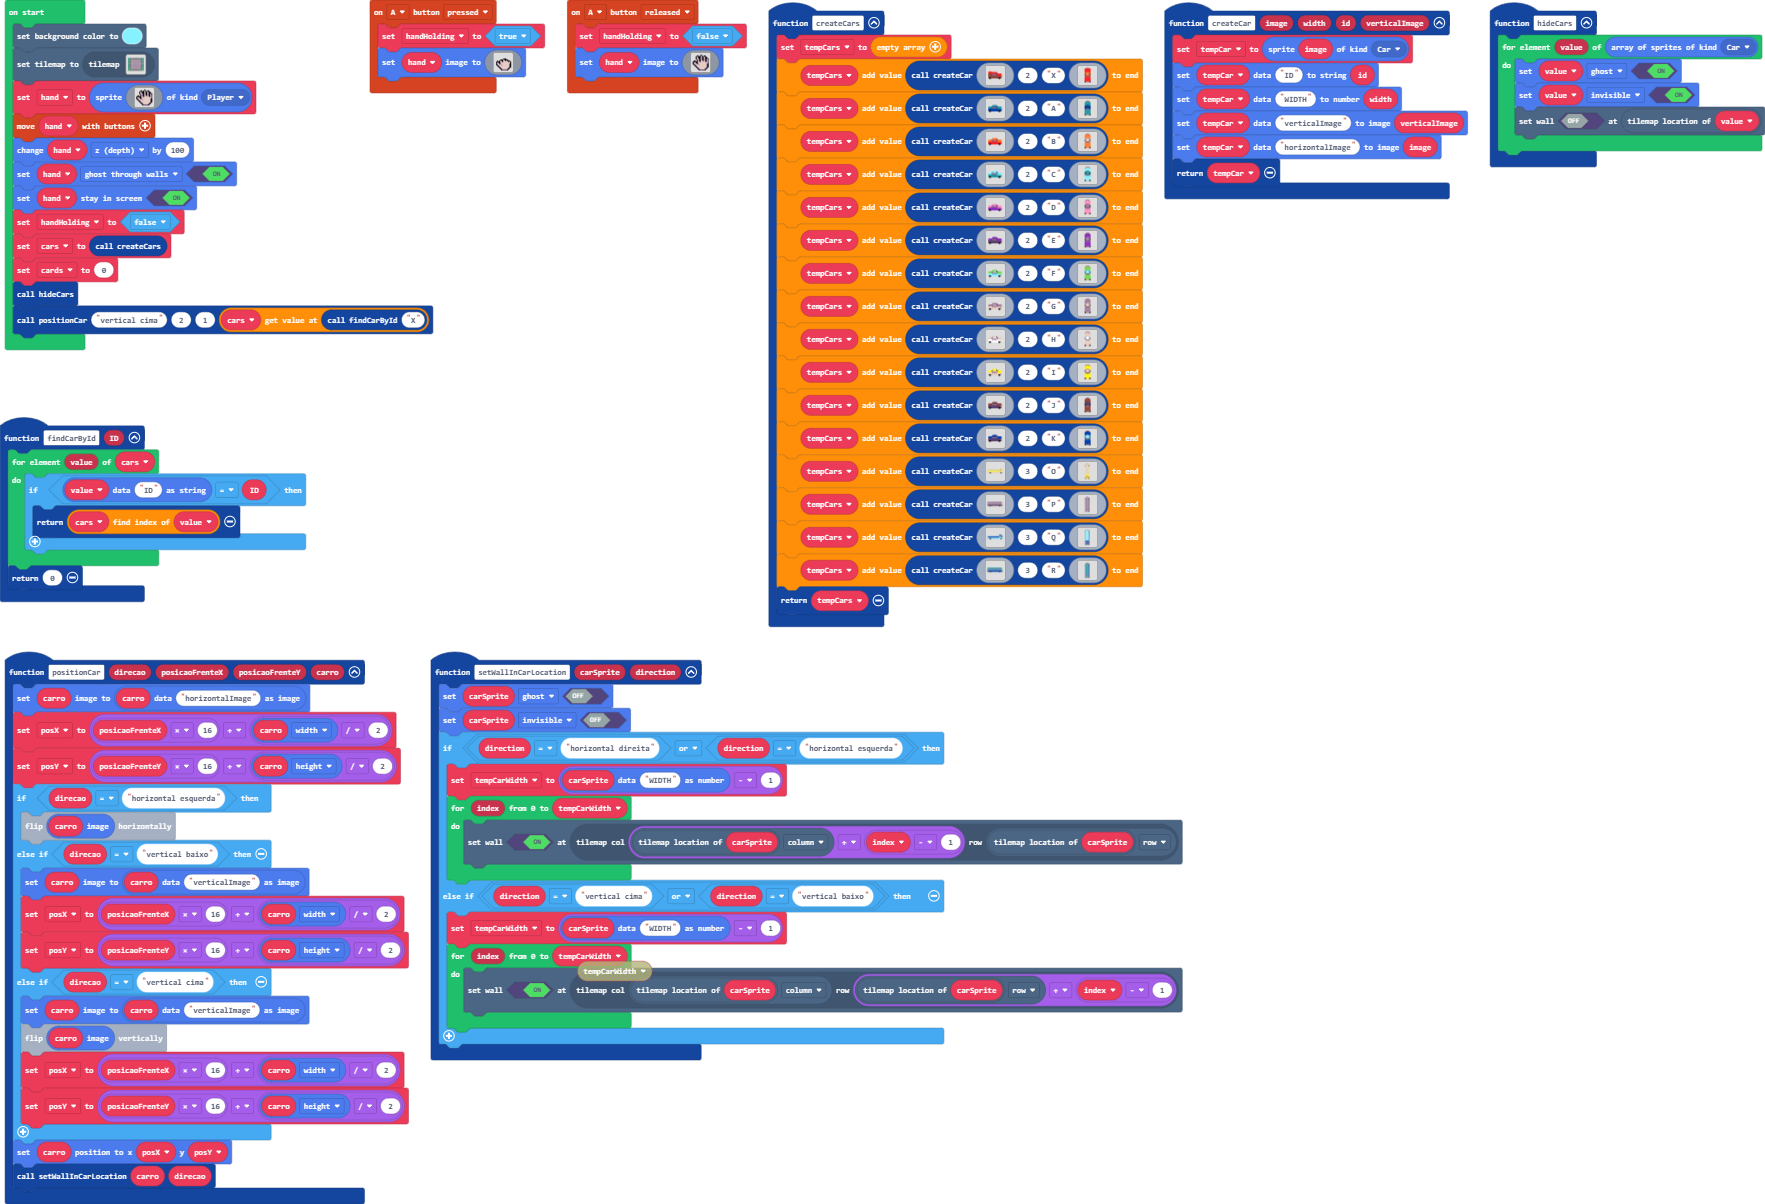
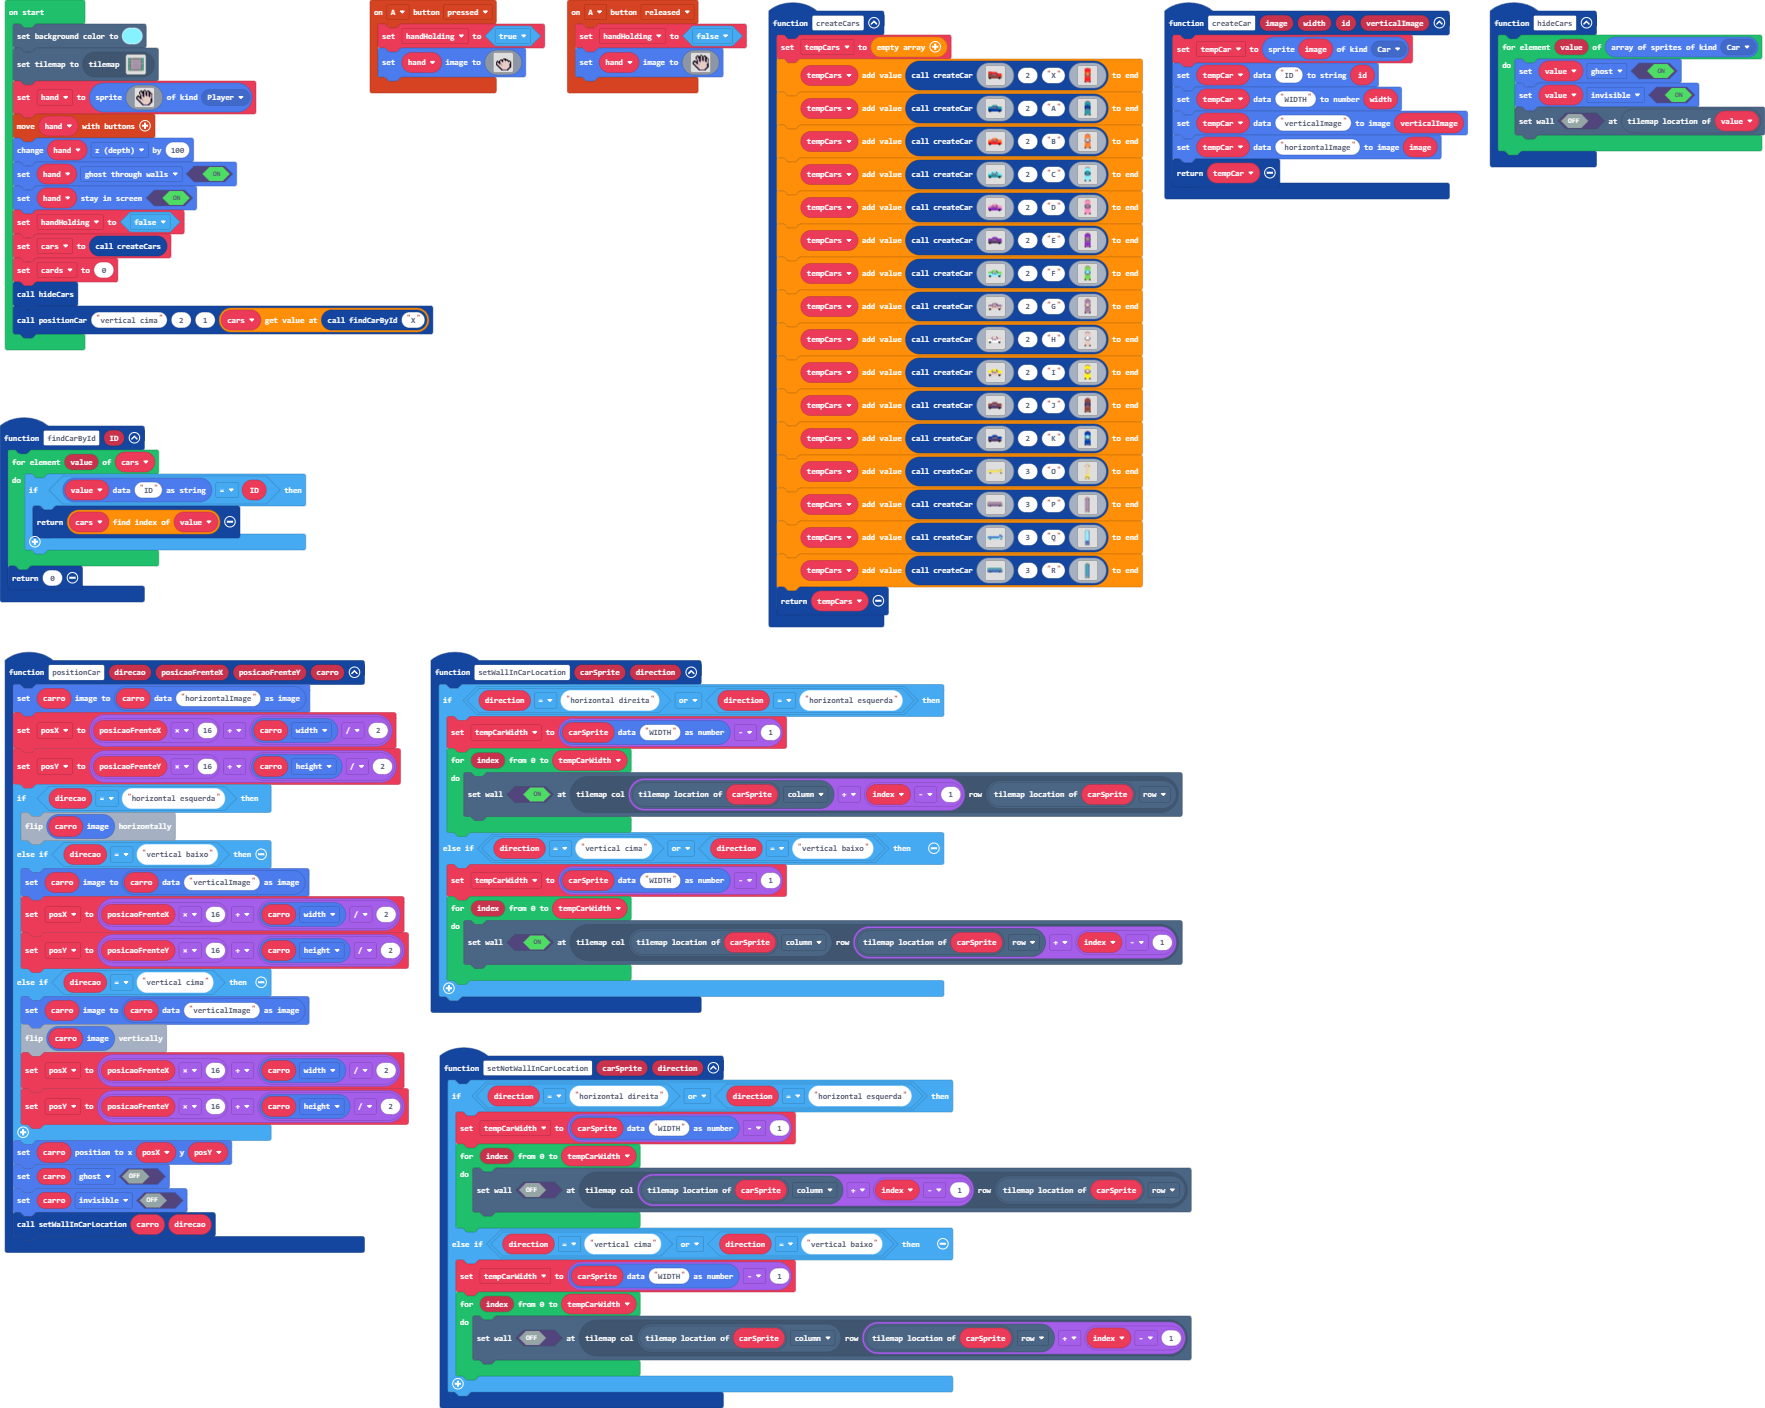
Update main.blocks, main.ts

diff --git a/main.ts b/main.ts
@@ -37,8 +37,6 @@ function findCarById (ID: string) {
     return 0
 }
 function setWallInCarLocation (carSprite: Sprite, direction: string) {
-    carSprite.setFlag(SpriteFlag.Ghost, false)
-    carSprite.setFlag(SpriteFlag.Invisible, false)
     if (direction == "horizontal direita" || direction == "horizontal esquerda") {
         tempCarWidth = sprites.readDataNumber(carSprite, "WIDTH") - 1
         for (let index = 0; index <= tempCarWidth; index++) {
@@ -80,12 +78,27 @@ function positionCar (direcao: string, posicaoFrenteX: number, posicaoFrenteY: n
         posY = posicaoFrenteY * 16 + carro.height / 2
     }
     carro.setPosition(posX, posY)
+    carro.setFlag(SpriteFlag.Ghost, false)
+    carro.setFlag(SpriteFlag.Invisible, false)
     setWallInCarLocation(carro, direcao)
 }
 controller.A.onEvent(ControllerButtonEvent.Released, function () {
     handHolding = false
     hand.setImage(assets.image`handOpened`)
 })
+function setNotWallInCarLocation (carSprite: Sprite, direction: string) {
+    if (direction == "horizontal direita" || direction == "horizontal esquerda") {
+        tempCarWidth = sprites.readDataNumber(carSprite, "WIDTH") - 1
+        for (let index = 0; index <= tempCarWidth; index++) {
+            tiles.setWallAt(tiles.getTileLocation(carSprite.tilemapLocation().column + (index - 1), carSprite.tilemapLocation().row), false)
+        }
+    } else if (direction == "vertical cima" || direction == "vertical baixo") {
+        tempCarWidth = sprites.readDataNumber(carSprite, "WIDTH") - 1
+        for (let index = 0; index <= tempCarWidth; index++) {
+            tiles.setWallAt(tiles.getTileLocation(carSprite.tilemapLocation().column, carSprite.tilemapLocation().row + (index - 1)), false)
+        }
+    }
+}
 let posY = 0
 let posX = 0
 let tempCar: Sprite = null
